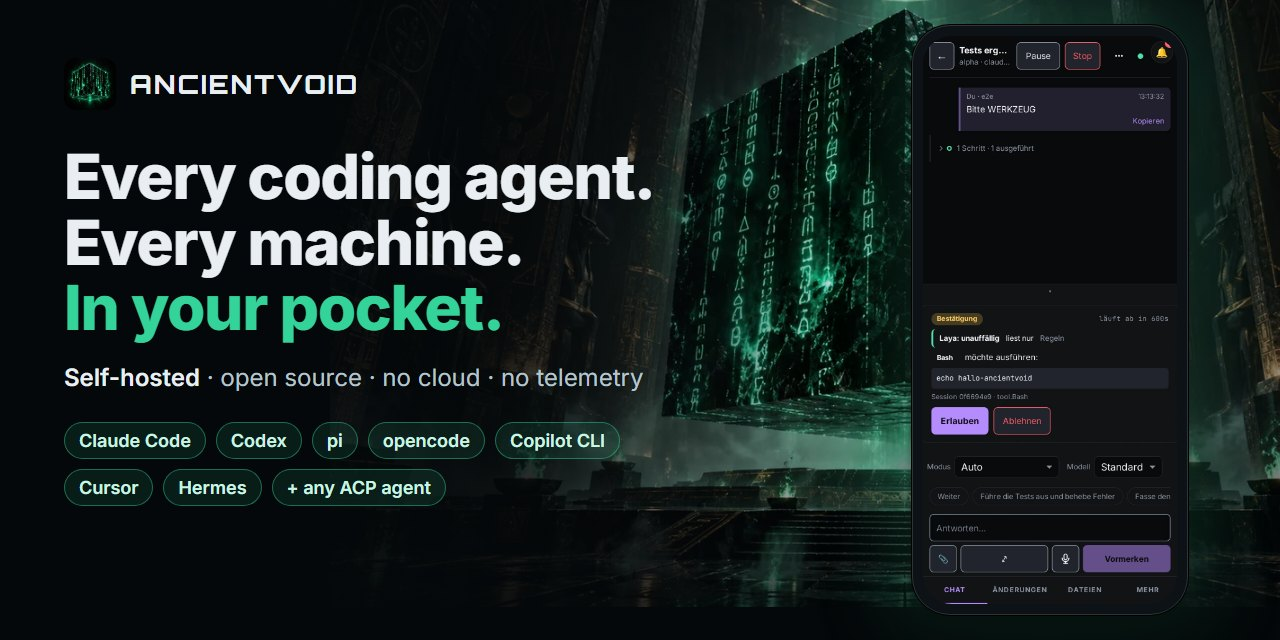
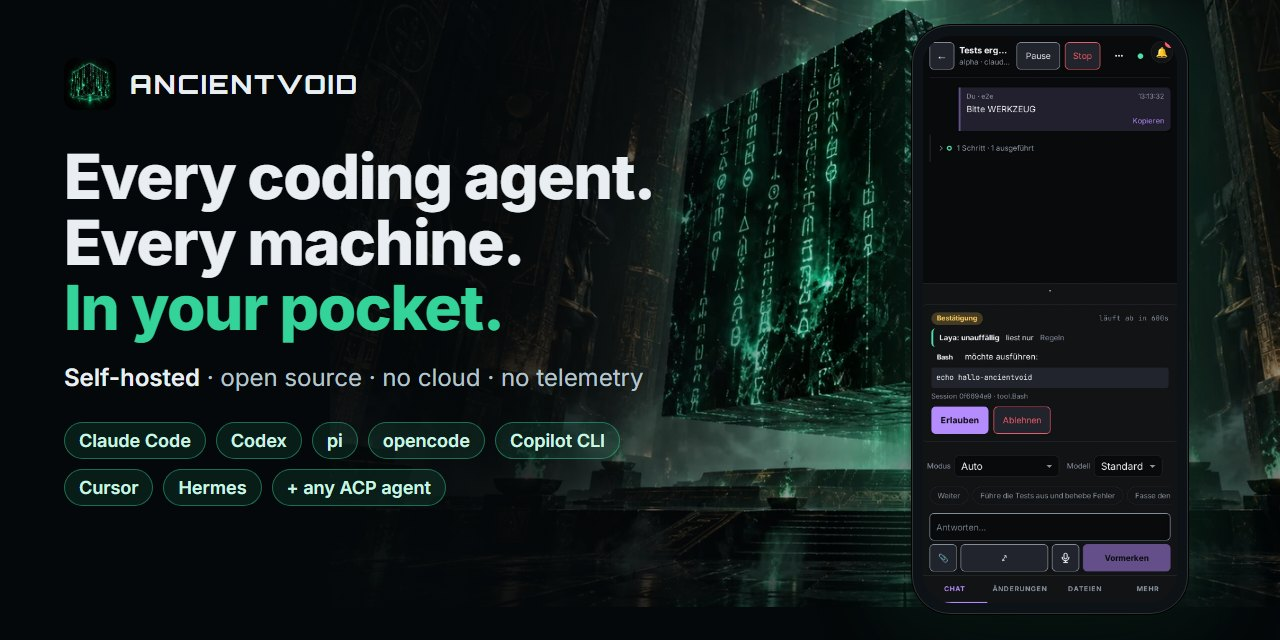
. d readme: Showcase statt Screenshot-Reihe — Desktop im Browserfenster, davor zwei Handys
`npm run readme:hero` rendert zusätzlich showcase-01.jpg (quer,
1600×960, 164 KB) und showcase-02.jpg (hoch, 1000×1360, 159 KB) aus
den vorhandenen Demo-Hub-Screenshots: Desktop-Arbeitsfläche im
Browserfenster mit Tailnet-Adresse, davor Warteschlange und Freigabe
auf dem Handy. Die README liefert per <picture> auf schmalen
Bildschirmen die Hochformat-Variante. Keine neuen Aufnahmen: ein
Probelauf mit dem TestHub unter Windows zeigte Rechnername und
Benutzerpfad (Rohbilder gelöscht, nie committet).

diff --git a/README.md b/README.md
@@ -42,19 +42,18 @@ approve or redirect, and the *running* agent continues.
 
 ## See it
 
-<p align="center">
-  <img src="docs/assets/readme-start-412.webp" width="260" alt="The session queue on a phone, with the sessions that need you first">
-  <img src="docs/assets/readme-freigabe-412.webp" width="260" alt="Approving a shell command from the phone in the middle of a turn">
-</p>
-<p align="center">
-  <img src="docs/assets/readme-desktop-1280.webp" width="100%" alt="Desktop workspace: session list on the left, a session tile on the right">
-</p>
+<picture>
+  <source media="(max-width: 700px)" srcset="apps/site/assets/showcase-02.jpg">
+  <img src="apps/site/assets/showcase-01.jpg" width="100%" alt="AncientVoid on a desktop browser and two phones: the session queue, and a shell command waiting for approval on both the phone and the desktop">
+</picture>
 
-The images show the queue on the phone, a shell command approved mid-turn and
-the desktop workspace. They come from a demo hub with synthetic sessions
-([reproducible](scripts/readme-screenshots.mjs)). **The UI is German today.**
-An English UI is in progress ([P61](epics/EPIC-P61-mehrsprachigkeit-englisch.md));
-the [user guide](docs/guide/README.md) is already in English.
+One hub, every screen: the queue on your phone, a shell command waiting for
+your approval, and the same session on the desktop. The images come from a
+demo hub with synthetic sessions ([reproducible](scripts/readme-hero.mjs)).
+**The UI is German today.** An English UI is in progress
+([P61](epics/EPIC-P61-mehrsprachigkeit-englisch.md)); the
+[user guide](docs/guide/README.md), with every page at full size, is already
+in English.
 
 ## Quick start
 
